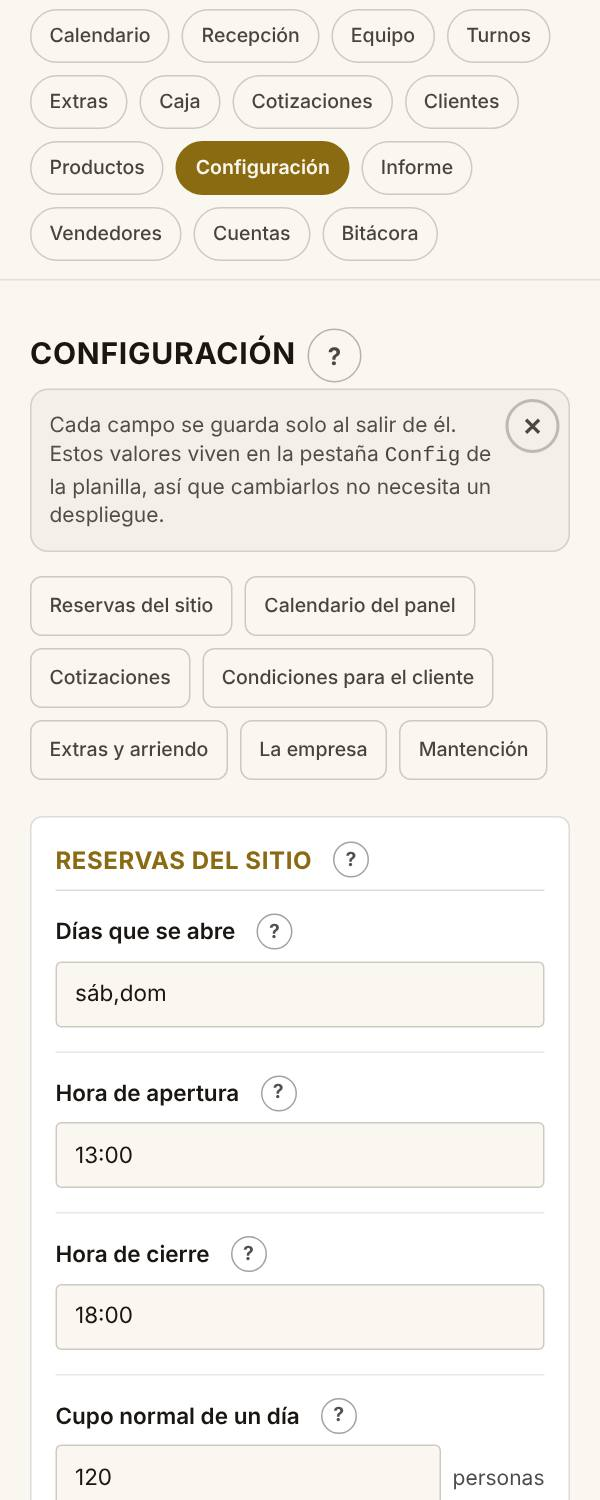
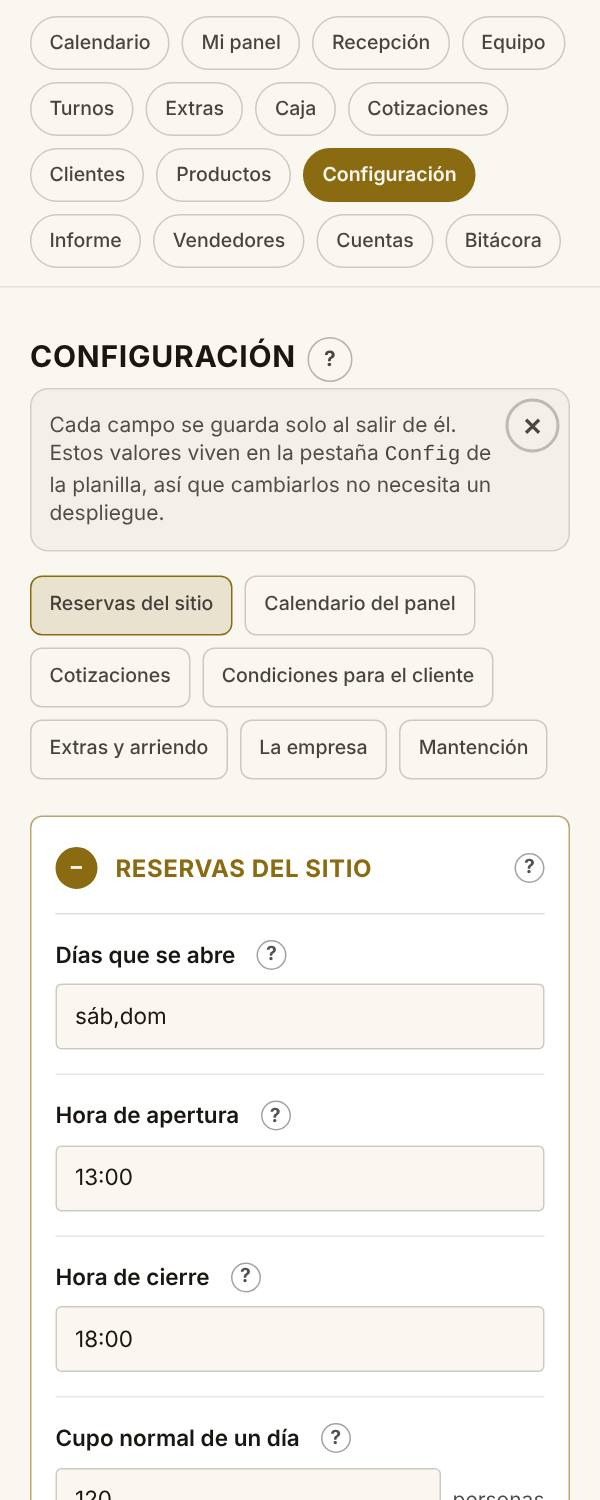
Configuración: las secciones se pliegan
Lo pidió el cliente: "en configuración deben estar collapsable las
distintas secciones". Abren cerradas, cada una con su + y su ?; el índice
de arriba abre la elegida y baja a ella, y un link con #seccion llega con
esa abierta. La foto de la misión y su texto, al día.

Claude-Session: https://claude.ai/code/session_01SbCpLZd7SNX1bimFxdeZa6

diff --git a/panel/src/components/ConfigEditor.tsx b/panel/src/components/ConfigEditor.tsx
@@ -17,6 +17,7 @@ import PasoAProduccion from './PasoAProduccion';
 import ImportarCRM from './ImportarCRM';
 import TraerProduccion from './TraerProduccion';
 import TraerComentarios from './TraerComentarios';
+import { SignoAbrir } from './TarjetaLista';
 import BuscarEnLista from './BuscarEnLista';
 import { NOMBRE_ROL } from '@/lib/roles';
 import { usarSoloMira } from './SesionCliente';
@@ -41,6 +42,25 @@ export default function ConfigEditor() {
   const [error, setError] = useState('');
   const [sinPermiso, setSinPermiso] = useState(false);
   const [guardando, setGuardando] = useState('');
+  // **Las secciones, plegables** (2026-11-26, lo pidió el cliente: *"en
+  // configuración deben estar collapsable las distintas secciones"*). Abren
+  // cerradas; el índice de arriba abre la elegida y baja a ella, y un link con
+  // `#mantencion` (u otra) llega con esa abierta.
+  const [abiertas, setAbiertas] = useState<Set<string>>(new Set());
+  useEffect(() => {
+    const id = window.location.hash.slice(1);
+    if (id) setAbiertas(new Set([id]));
+  }, []);
+  const alternar = (id: string) => setAbiertas((a) => {
+    const n = new Set(a);
+    if (n.has(id)) n.delete(id); else n.add(id);
+    return n;
+  });
+  const irA = (id: string) => {
+    setAbiertas((a) => new Set(a).add(id));
+    window.history.replaceState(null, '', `#${id}`);
+    requestAnimationFrame(() => document.getElementById(id)?.scrollIntoView({ block: 'start' }));
+  };
   const [revisando, setRevisando] = useState(false);
   const [resumen, setResumen] = useState('');
   /** Las cuentas que cotizan, para elegir a quién van las cotizaciones del sitio (2026-11-23). */
@@ -484,35 +504,47 @@ export default function ConfigEditor() {
         necesita un despliegue.
       </AvisoFijo>
 
-      {/* El índice: un botón por sección, para no recorrer la página entera. */}
+      {/* El índice: un botón por sección, que la abre y baja a ella. */}
       <nav aria-label="Secciones" className="mb-6 flex flex-wrap gap-2 lg:mb-4">
         {secciones.map((x) => (
-          <a key={x.id} href={`#${x.id}`} className="boton tecla min-h-[40px]">{x.titulo}</a>
+          <a key={x.id} href={`#${x.id}`} onClick={(e) => { e.preventDefault(); irA(x.id); }}
+            className={`boton tecla min-h-[40px] ${abiertas.has(x.id) ? 'border-oro bg-oro/15' : ''}`}>{x.titulo}</a>
         ))}
       </nav>
 
-      <div className="space-y-6 lg:space-y-4">
-        {secciones.map((x) => (
+      <div className="space-y-3 lg:space-y-2">
+        {secciones.map((x) => {
+          const abierta = abiertas.has(x.id);
+          return (
           <section key={x.id} id={x.id} aria-labelledby={`t-${x.id}`}
-            className="scroll-mt-4 rounded-lg border border-hueso/15 bg-panel px-4 pt-4 sm:px-5 lg:pt-3">
-            {/* Para qué sirve la sección, en su `?`. */}
-            {/* El `?` en la esquina de arriba a la derecha (2026-11-26). */}
-            <h2 id={`t-${x.id}`} className="flex items-center gap-2 text-base font-bold uppercase tracking-wide text-oro">
-              <span className="min-w-0 flex-1">{x.titulo}</span><AyudaCorta titulo={x.titulo}>{x.para}</AyudaCorta>
-            </h2>
+            className={`scroll-mt-4 rounded-lg border bg-panel px-4 sm:px-5 ${abierta
+              ? 'border-oro/60 pb-0 pt-3' : 'border-hueso/15 py-1'}`}>
+            {/* Para qué sirve la sección, en su `?`, fuera del botón que la
+                abre: apretar el `?` no la pliega. El `?` en la esquina de
+                arriba a la derecha (2026-11-26). */}
+            <div className="flex items-center gap-2">
+              <button type="button" onClick={() => alternar(x.id)} aria-expanded={abierta}
+                aria-controls={`c-${x.id}`}
+                className="tecla flex min-h-[44px] min-w-0 flex-1 items-center gap-3 text-left">
+                <SignoAbrir abierta={abierta} />
+                <h2 id={`t-${x.id}`} className="text-base font-bold uppercase tracking-wide text-oro">{x.titulo}</h2>
+              </button>
+              <AyudaCorta titulo={x.titulo}>{x.para}</AyudaCorta>
+            </div>
             {/* Con vista gerencia, los campos se ven apagados: `fieldset
                 disabled` los apaga todos de una vez. */}
             {/* **En el computador, los campos van en dos columnas** (2026-11-21,
                 el computador más compacto): cada uno es un nombre y una caja
                 angosta, y a todo el ancho la página medía el doble. La segunda
                 columna parte sin línea arriba, como la primera. */}
-            <fieldset disabled={soloMira}
+            {abierta && <fieldset disabled={soloMira} id={`c-${x.id}`}
               className="m-0 mt-2 min-w-0 border-0 border-t border-hueso/15 p-0
                          lg:grid lg:grid-cols-2 lg:gap-x-10 lg:[&>*:nth-child(2):not([data-grupo])]:border-t-0">
               {x.cuerpo}
-            </fieldset>
+            </fieldset>}
           </section>
-        ))}
+          );
+        })}
       </div>
 
       <AvisoFijo clave="config-clave" className="mt-6 max-w-2xl">

diff --git a/panel/src/lib/ayudas.ts b/panel/src/lib/ayudas.ts
@@ -555,8 +555,8 @@ export const AYUDAS: Record<string, Ayuda> = {
   configuracion: {
     titulo: 'La configuración',
     cuerpo: [
-      'Está ordenada por secciones, con un botón arriba para saltar a cada '
-      + 'una: las reservas del sitio, el calendario del panel, las '
+      'Está ordenada por secciones plegadas: cada una se abre con su +, o con su '
+      + 'botón del índice de arriba, que la abre y baja a ella. Son las reservas del sitio, el calendario del panel, las '
       + 'cotizaciones, las condiciones para el cliente, los extras y el arriendo, '
       + 'los datos de la empresa y la mantención. Las secciones largas van en '
       + 'grupos, cada uno con su subtítulo.',

diff --git a/panel/src/lib/misiones.ts b/panel/src/lib/misiones.ts
@@ -262,7 +262,7 @@ const ADMIN: Mision[] = [
     id: 'config', emoji: '⚙', titulo: 'La configuración', escena: 'adm-config',
     intro: 'Precios, plazos, el contrato y lo que ve el público, ordenado por secciones.',
     puntos: [
-      'Salta directo a cada sección.',
+      'Cada sección se abre con su +, o desde el índice de arriba, que la abre y baja a ella.',
       'Reservas del sitio: esto cambia lo que ve el público.',
       'Mantención: revisar Shopify a mano, traer los datos de producción a una versión de prueba y, una sola vez, dejar la base en cero.'
     ],
